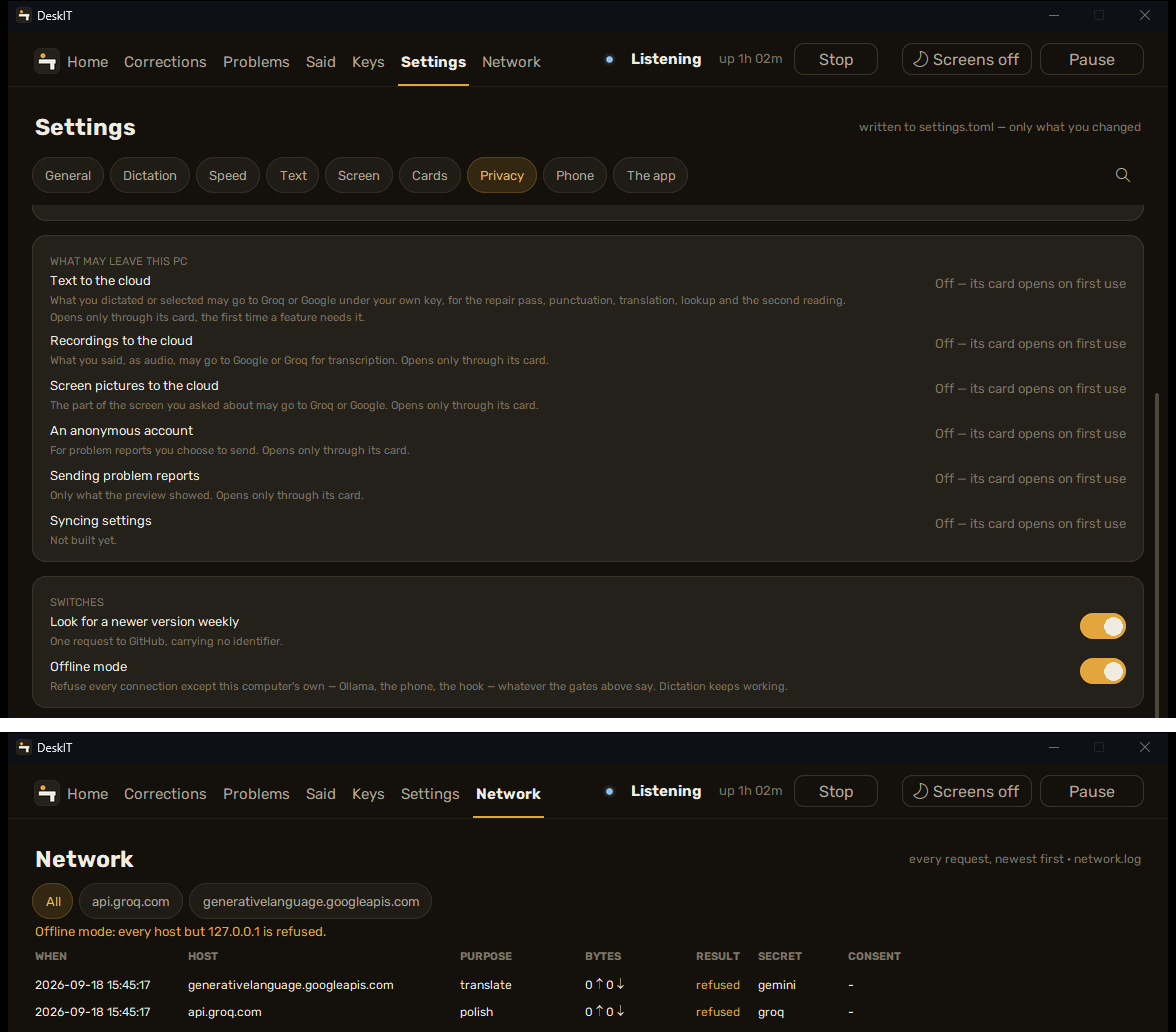
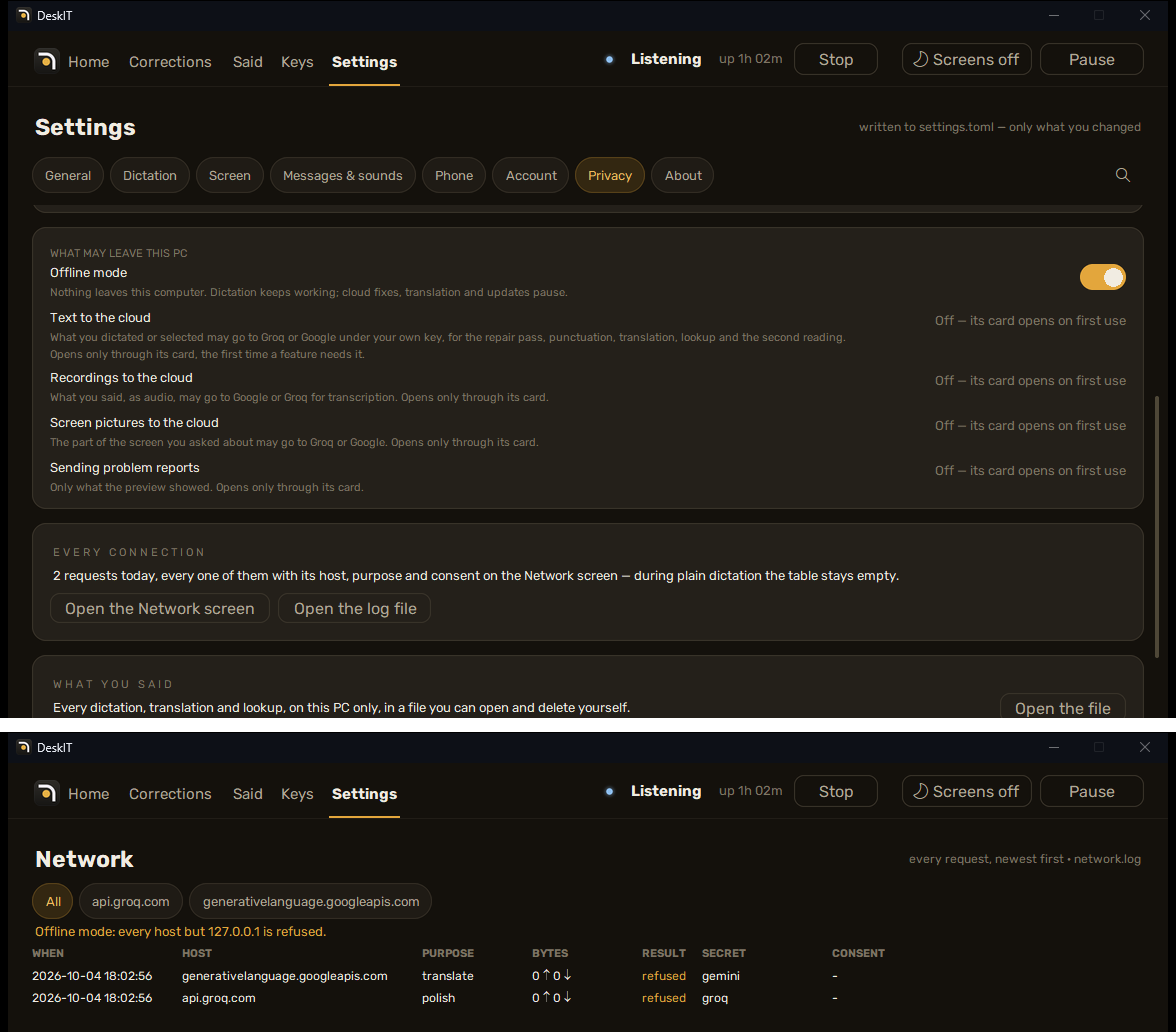
The guide's pictures of the desk, taken again from dev-all
Six pictures still showed the desk's bar with the Problems place in it
(gone since 2026-10-01, MASTER.md section 8) and the old dalet in the
title bar and on the bar's mark; the offline one also the old
Settings tabs (Speed, Text, Cards, The app) and Network on the bar. The shelf's "Open the desk" door still
had the dalet that d2f4bb6 replaced with Corner.

Taken from a detached tree at dev-all (466b710: main + every store-walk
lane), on a hidden desktop of their own (DeskITShots), muted, from a
stranger's scratch home (DESKIT_HOME + DESKIT_STRANGER, the suite's key
prefix, so no Dev badge and no owner data): Dashboard() in process,
the app faked as running through control.send, PrintWindow of the
frame. Same subject and size as before:

  03-corrections         two proposals and three learned words, invented
  03-shelf               shelf_card + skin\shelf.face on the drawn corner;
                         the door wears Corner, the row says Keep / No
  04-offline-refused-row Privacy at "What may leave this PC" (Offline
                         mode on) over Network with the two refused rows,
                         real refusals through net.py into the scratch log
  06-settings-phone      an example address (dana-pc.example.ts.net) in
                         place of one that carried the owner's name
  07-settings-screen     the Recording card as an installed copy without
                         the pack shows it
[…]

diff --git a/CHANGELOG.md b/CHANGELOG.md
@@ -14,7 +14,7 @@ owner speaking ("on my first update", "I asked"), never "the owner" or
 
 ## 1.0.7
 
-One logo, everywhere. When I installed the Store copy on a clean PC, the first screen of setup still showed the old mark — the lamp over a desk — and so did the title bar, the desk's window and the Store copy's button on the taskbar, which sat on a blue square, while the Store page and the app's own icon showed the new corner with the gold dot. Every one of those pictures is now drawn from the same file as the icon, so they cannot drift apart again. The Store copy's taskbar button shows the logo as it is, with no blue square behind it: Windows wants the icon in a set of exact sizes before it will show it without a backing, and the package now carries all of them. And installing DeskIT from the Microsoft Store now puts "DeskIT App" on the desktop, the way the installer from this page puts DeskIT there; uninstalling it takes the shortcut away with it. The new logo is also on the phone keyboard's app icon and its notification icon, on the button that opens the desk from the panel beside the dot, and in the guide's pictures of the setup, which now show the setup as it is.
+One logo, everywhere. When I installed the Store copy on a clean PC, the first screen of setup still showed the old mark — the lamp over a desk — and so did the title bar, the desk's window and the Store copy's button on the taskbar, which sat on a blue square, while the Store page and the app's own icon showed the new corner with the gold dot. Every one of those pictures is now drawn from the same file as the icon, so they cannot drift apart again. The Store copy's taskbar button shows the logo as it is, with no blue square behind it: Windows wants the icon in a set of exact sizes before it will show it without a backing, and the package now carries all of them. And installing DeskIT from the Microsoft Store now puts "DeskIT App" on the desktop, the way the installer from this page puts DeskIT there; uninstalling it takes the shortcut away with it. The new logo is also on the phone keyboard's app icon and its notification icon, on the button that opens the desk from the panel beside the dot, and in the guide's pictures of the setup and of the desk, which now show both as they are.
 
 The free cloud keys have a page of their own in the setup, and a saved key stays saved on screen. When I set up a fresh copy from the Store I could not tell what the keys were for, and I would have skipped the page and then wondered why translation did nothing. Now, right after the keys page, there are two cards, Groq and Gemini, and each one says what its key unlocks and what I do without it; Translate (F8) is on the keys page too, so it is there from the first day. A key that works shows as a row of dots with Change key beside it, the same on that page and in Settings > Privacy: before, the field went empty again after a good key was saved, as if nothing had been saved. Change key opens an empty field with Save and Cancel, Cancel keeps the saved key, and a new key Groq or Google refuses gives the old one back. One Groq key is now enough to translate as well — I measured it on sixteen of my own kind of sentences and it kept every English term in English letters, as Gemini does, in half a second — and Gemini goes first when I have both. Translation from a brand-new Gemini key did not work at all, because Google no longer gives new keys the first model on DeskIT's list and DeskIT stopped at that answer; it now goes on to a model that answers. And if I press F8 or Ctrl+F2 with no key saved, Home says which key to add and takes me to it.
 
